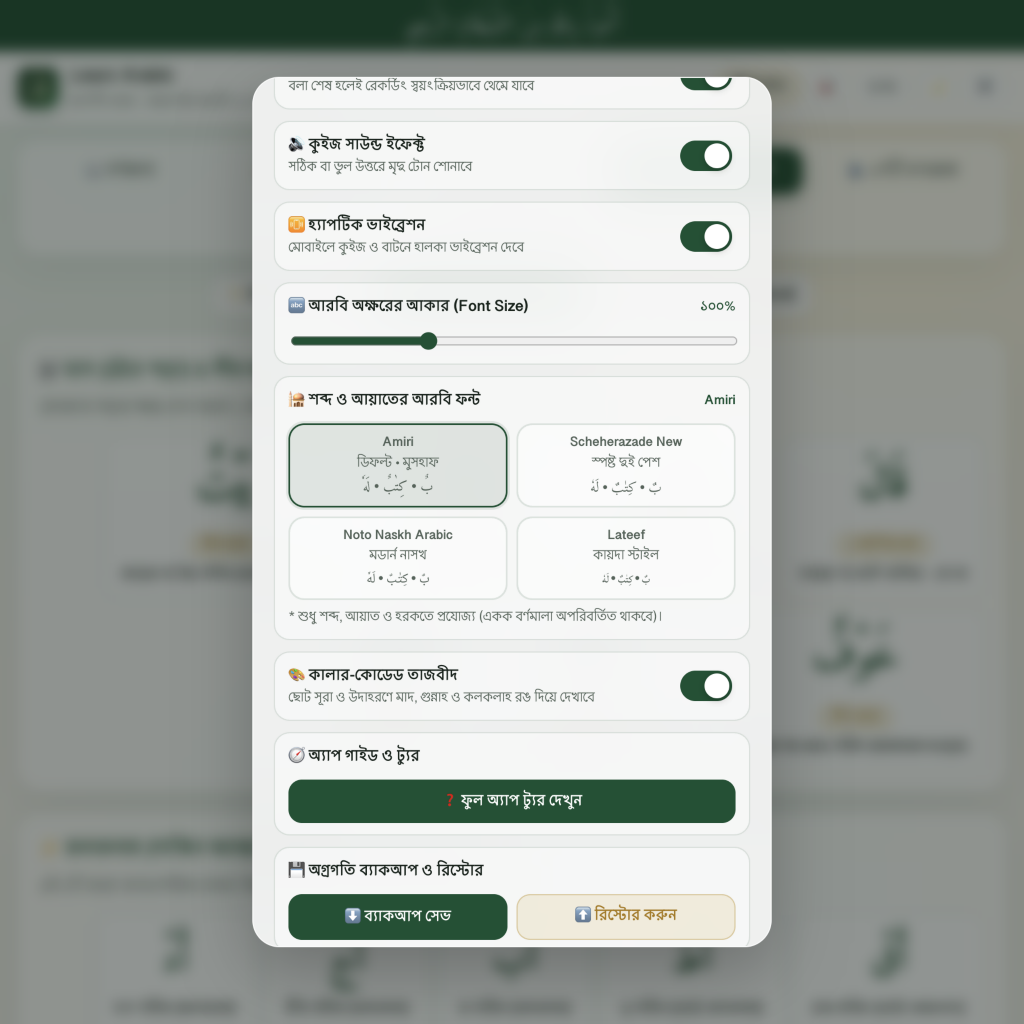
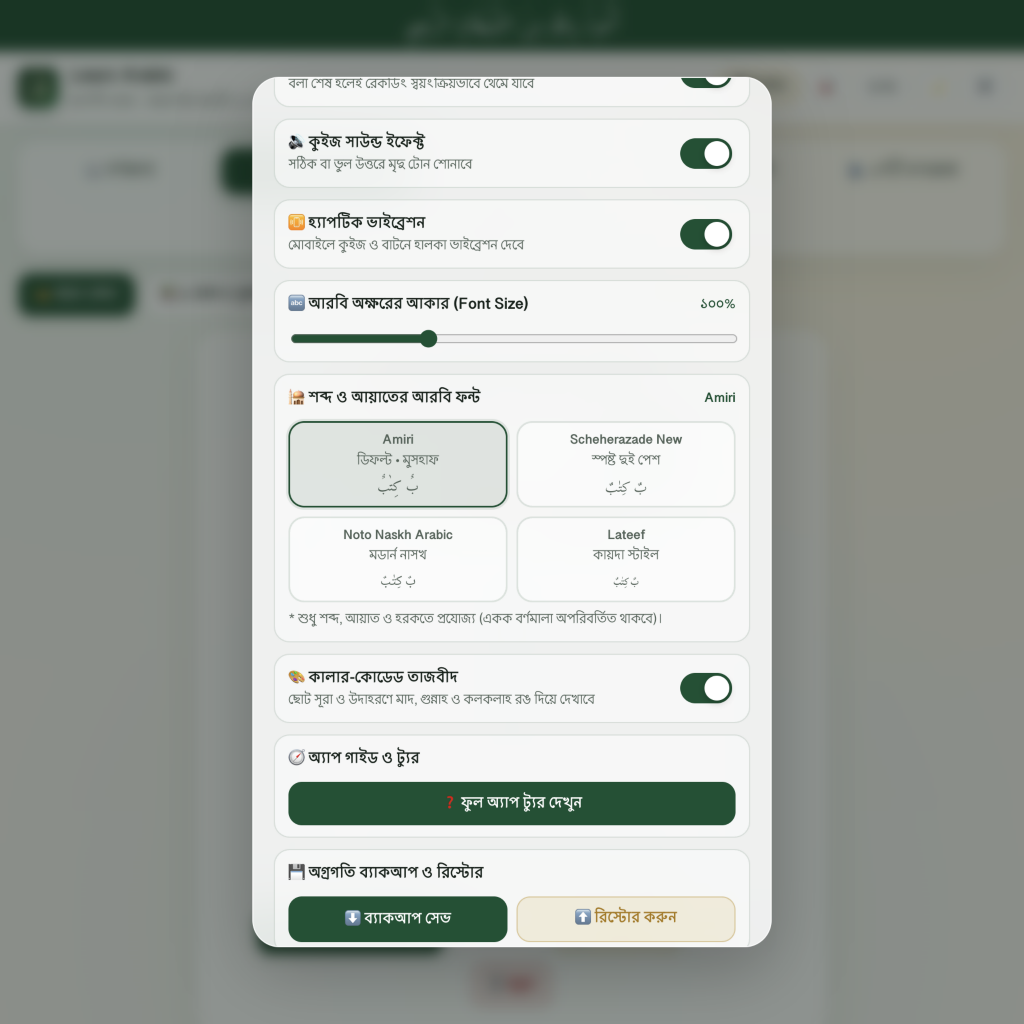
Enlarge 4-font preview samples (بٌ كِتٰبٌ) and equalize Lateef size (v1.1.15)

diff --git a/index.html b/index.html
@@ -575,22 +575,22 @@
           <button type="button" class="font-pick-card active" data-font="Amiri">
             <span class="font-pick-title">Amiri</span>
             <span class="font-pick-tag">ডিফল্ট • মুসহাফ</span>
-            <span class="font-pick-sample" style="font-family:'Amiri', serif;">بٌ • كِتٰبٌ • لَهٗ</span>
+            <span class="font-pick-sample" style="font-family:'Amiri', serif;">بٌ كِتٰبٌ</span>
           </button>
           <button type="button" class="font-pick-card" data-font="Scheherazade New">
             <span class="font-pick-title">Scheherazade New</span>
             <span class="font-pick-tag">স্পষ্ট দুই পেশ</span>
-            <span class="font-pick-sample" style="font-family:'Scheherazade New', serif;">بٌ • كِتٰبٌ • لَهٗ</span>
+            <span class="font-pick-sample" style="font-family:'Scheherazade New', serif;">بٌ كِتٰبٌ</span>
           </button>
           <button type="button" class="font-pick-card" data-font="Noto Naskh Arabic">
             <span class="font-pick-title">Noto Naskh Arabic</span>
             <span class="font-pick-tag">মডার্ন নাসখ</span>
-            <span class="font-pick-sample" style="font-family:'Noto Naskh Arabic', serif;">بٌ • كِتٰبٌ • لَهٗ</span>
+            <span class="font-pick-sample" style="font-family:'Noto Naskh Arabic', serif;">بٌ كِتٰبٌ</span>
           </button>
           <button type="button" class="font-pick-card" data-font="Lateef">
             <span class="font-pick-title">Lateef</span>
             <span class="font-pick-tag">কায়দা স্টাইল</span>
-            <span class="font-pick-sample" style="font-family:'Lateef', serif;">بٌ • كِتٰبٌ • لَهٗ</span>
+            <span class="font-pick-sample font-pick-sample--lateef" style="font-family:'Lateef', serif;">بٌ كِتٰبٌ</span>
           </button>
         </div>
         <span style="font-size:0.76rem; color:var(--text-muted);">* শুধু শব্দ, আয়াত ও হরকতে প্রযোজ্য (একক বর্ণমালা অপরিবর্তিত থাকবে)।</span>
@@ -635,7 +635,7 @@
 
       <div class="dev-credit-box">
         <div style="font-size:0.8rem; color:var(--text-muted); margin-bottom:4px;">
-          Learn Arabic PWA • বর্তমান ভার্সন: <strong id="appVersionBadge">1.1.14</strong>
+          Learn Arabic PWA • বর্তমান ভার্সন: <strong id="appVersionBadge">1.1.15</strong>
         </div>
         <div style="font-size:0.88rem; font-weight:600;">
           Develop With <span style="color:#e11d48;" aria-label="love">❤</span> by <strong>Kamrul Hasan</strong>

diff --git a/styles.css b/styles.css
@@ -2219,11 +2219,15 @@ body.tajweed-colors[data-theme="dark"] .tj-heavy { color: #a78bfa; }
 }
 
 .font-pick-sample {
-  font-size: 1.35rem;
-  line-height: 1.6;
+  font-size: 1.85rem;
+  line-height: 1.75;
   direction: rtl;
   color: var(--primary);
-  margin-top: 2px;
+  margin-top: 4px;
+}
+
+.font-pick-sample--lateef {
+  font-size: 2.15rem;
 }
 
 .footer-update-btn {

diff --git a/sw.js b/sw.js
@@ -1,4 +1,4 @@
-const CACHE_NAME = "learn-arabic-v1.1.14";
+const CACHE_NAME = "learn-arabic-v1.1.15";
 const ASSETS = [
   "./",
   "./index.html",

diff --git a/README.md b/README.md
@@ -1,4 +1,4 @@
-# Learn Arabic — মাদানী কায়দা (অফলাইন PWA) • v1.1.14
+# Learn Arabic — মাদানী কায়দা (অফলাইন PWA) • v1.1.15
 
 নন-এরাবিক (বাংলাভাষী) শিক্ষার্থীদের জন্য **মাদানী কায়দা** অনুসারে আরবি ২৯ হরফের শুদ্ধ উচ্চারণ, হাতে লেখা ও ৮ ভাগ, মুরাক্কাব (শব্দের শুরু, মাঝ ও শেষের রূপ), হরকত, তানবীন, মাদ, ১৭টি মাখরাজ, ছোট সূরা (Word-by-Word) এবং বাংলা ভয়েস মূল্যায়নসহ তৈরি একটি **১০০% অফলাইন PWA ওয়েব অ্যাপ্লিকেশন**।
 
@@ -40,7 +40,7 @@
   - `<` ও `>` বাটনসহ ৯ ধাপের রিয়েল স্পটলাইট ট্যুর (মনোযোগ মোড, ইনস্টল ও আপডেট গাইডসহ)।
   - **🕌 ভিজ্যুয়াল ৪-ফন্ট চুজার (`Amiri` ডিফল্ট, `Scheherazade New`, `Noto Naskh Arabic`, `Lateef`):** লাইভ দুই পেশ ও হরকতের নমুনাসহ (`بٌ • كِتٰبٌ • لَهٗ`) ১-ট্যাপে শব্দ ও আয়াতের ফন্ট পরিবর্তন (একক বর্ণমালা অপরিবর্তিত থাকবে)।
   - হেডারে সরাসরি **📲 ইনস্টল** বাটন (মোবাইল ও ডেস্কটপ উভয় ভিউতে ১-ক্লিকে PWA ইনস্টল), নতুন আপডেট এলে ফুটারে ক্যাশ-ক্লিয়ার আপডেট বাটন, ডার্ক মোড, ফোকাস মোড (`🎯`), আরবি ফন্ট সাইজ স্লাইডার (`--ar-scale`), কালার-কোডেড তাজবীদ ও JSON ব্যাকআপ/রিস্টোর।
-- **📲 ১০০% অফলাইন PWA (v1.1.14)**:
+- **📲 ১০০% অফলাইন PWA (v1.1.15)**:
   - মোট **৪৪৩টি অফলাইন অ্যাসেট** (`৪২৭টি` `audio/` MP3 + `৪টি` `fonts/` ওয়েব ফন্ট + `icons/` + অ্যাপ শেল) সার্ভিস ওয়ার্কার (`sw.js`) দিয়ে ক্যাশকৃত এবং অটোমেটিক ইনস্টল সাজেশন ব্যানারযুক্ত।
 
 ---
@@ -67,7 +67,7 @@ python3 -m http.server 8080
 ├── quran_words.js                  # আল-কোরআনের ১০০টি শব্দ ও অর্থ ডেটাবেজ
 ├── strokes.js                      # ২৯ হরফের মসৃণ Bezier ক্যালিগ্রাফি পাথ ও টিপস
 ├── app.js                          # অডিও, অটো-স্টপ রেকর্ডার, কুইজ, ট্যুর, PWA ও লেখা মূল্যায়ন
-├── manifest.json                   # PWA ম্যানিফেস্ট (v1.1.14)
+├── manifest.json                   # PWA ম্যানিফেস্ট (v1.1.15)
 ├── sw.js                           # অফলাইন সার্ভিস ওয়ার্কার (৪৪৩টি অ্যাসেট)
 ├── fonts/                          # ৪টি অফলাইন আরবি ফন্ট (Amiri, Scheherazade New, Noto Naskh, Lateef)
 ├── icons/                          # অ্যাপ লোগো, ফ্যাভিকন ও PWA আইকনসমূহ
